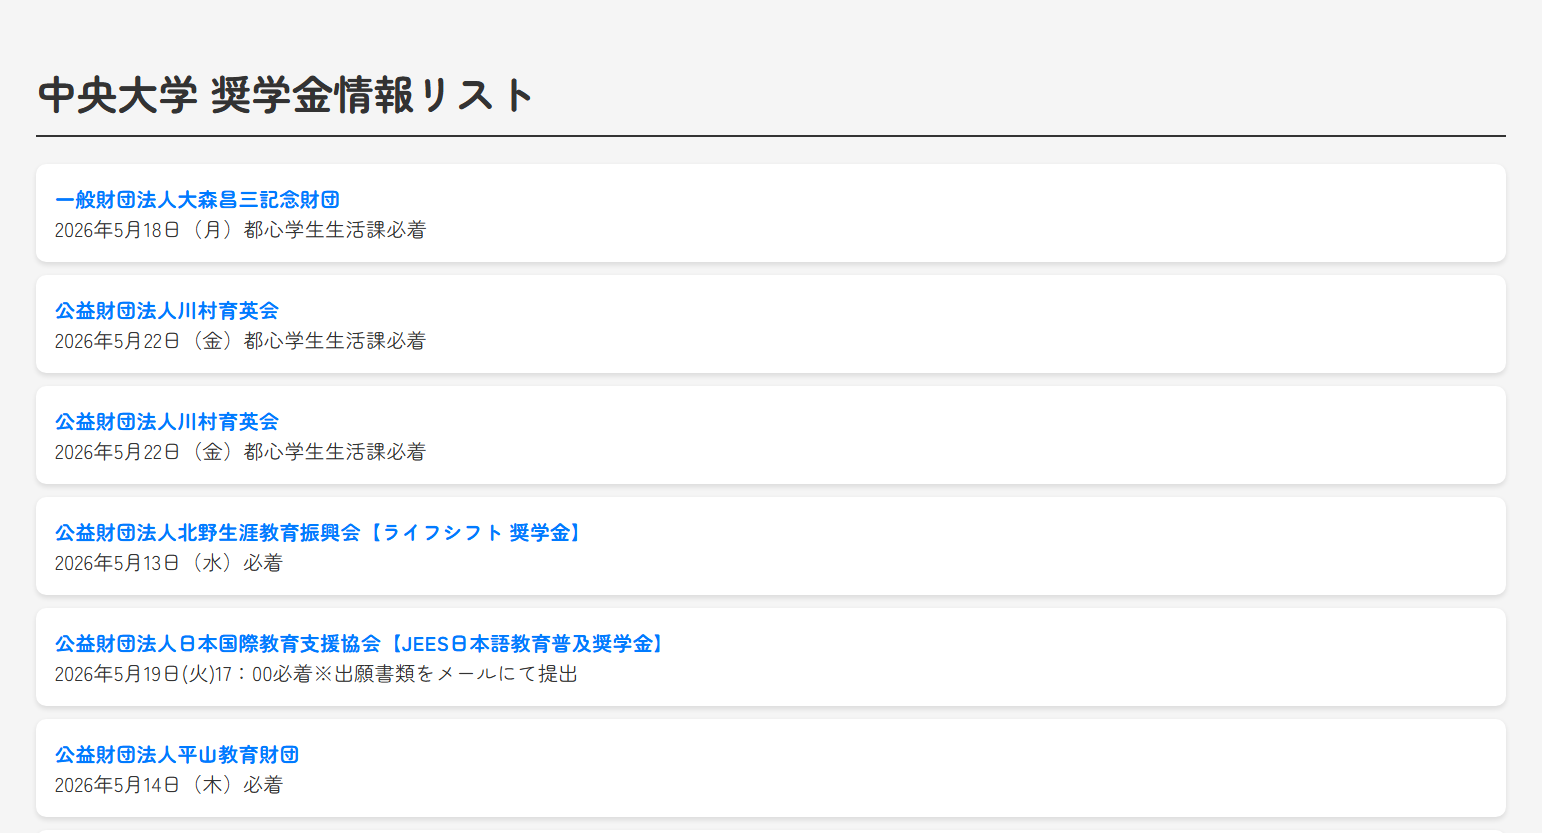
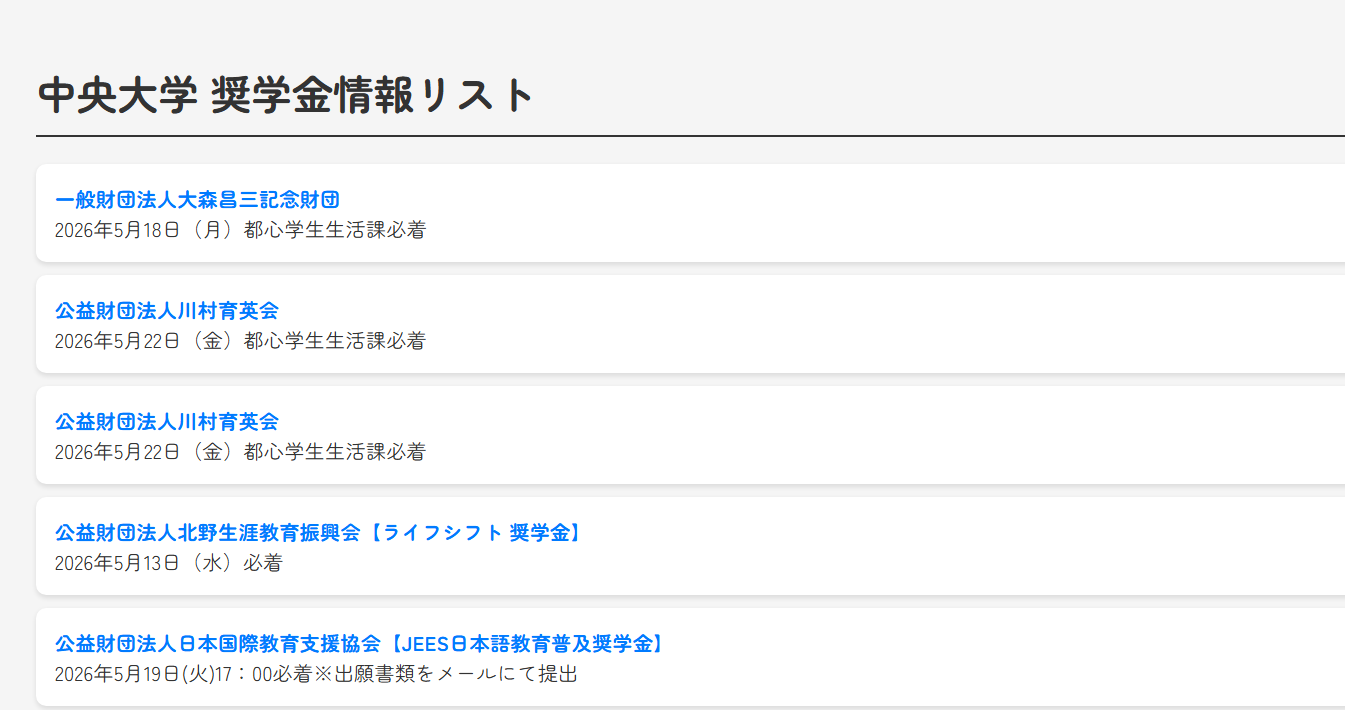
chore: works.yaml

Changed region(s): [[0.0312, 0.2169, 0.968, 1.0], [0.0, 0.093, 0.4059, 0.1859]]

diff --git a/README.md b/README.md
@@ -1,12 +1,13 @@
 # my portfolio website
 
-[v76nl.github.io](https://v76nl.github.io/) \
+[v76nl.github.io](https://v76nl.github.io/)
+
 ポートフォリオというより制作物管理の意味合いが強い
 
 ## 実行方法
 
 ```bash
-pnpm run dev
+pnpm dev
 ```
 
 ## ディレクトリ構成